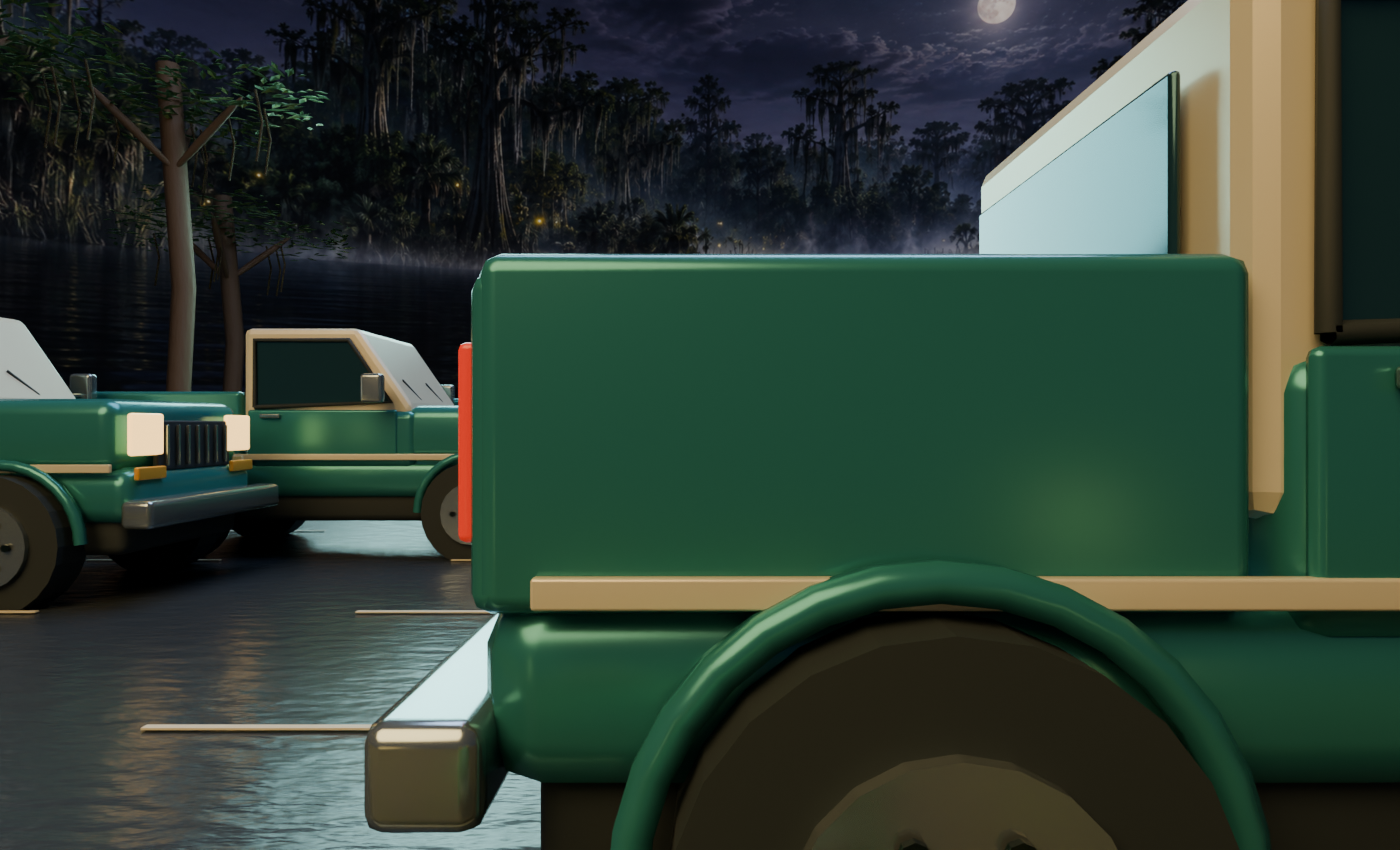
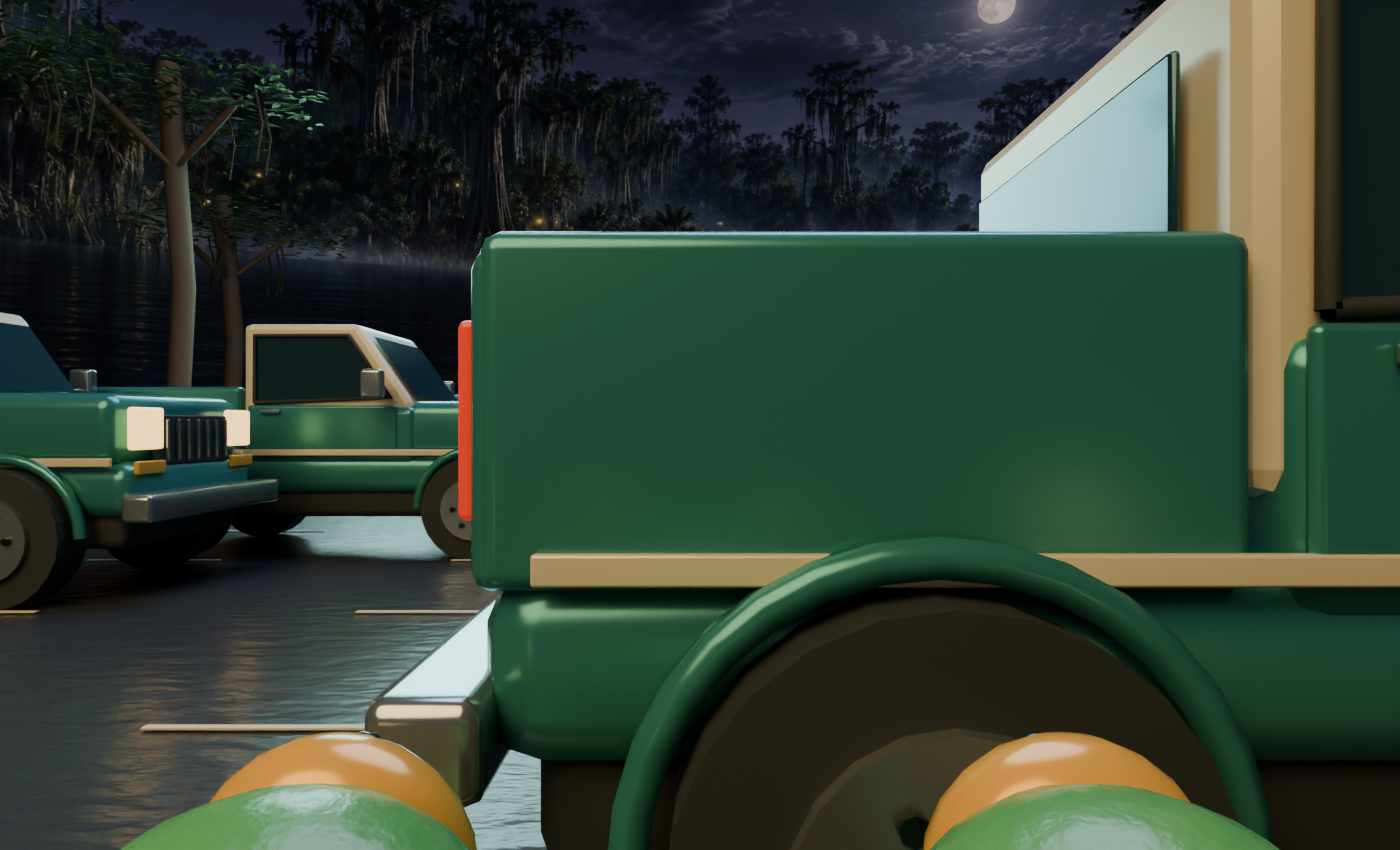
.

diff --git a/scripts/export_bayou.py b/scripts/export_bayou.py
@@ -1,0 +1,50 @@
+"""Export reviewed Blender models only after explicit Form approval is recorded."""
+import bpy,json,hashlib,os
+from pathlib import Path
+BASE=Path(__file__).resolve().parent.parent;DESIGN=BASE/'design/bayou-crossing';OUT=BASE/'public/assets/bayou'
+review=json.loads((DESIGN/'milestone-reviews.json').read_text())
+if review['form']['status']!='approved' or not review['form']['approvedBy']:raise RuntimeError('Explicit Form approval required before export')
+OUT.mkdir(parents=True,exist_ok=True)
+report=[]
+def export(name,objects):
+ bpy.ops.object.select_all(action='DESELECT')
+ for o in objects:o.hide_set(False);o.hide_render=False;o.select_set(True)
+ bpy.context.view_layer.objects.active=objects[0]
+ bpy.ops.export_scene.gltf(filepath=str(OUT/(name+'.glb')),export_format='GLB',use_selection=True,export_apply=True,export_yup=True,export_extras=True,export_cameras=False,export_lights=False)
+ path=OUT/(name+'.glb');dg=bpy.context.evaluated_depsgraph_get();tri=0
+ for o in objects:
+  if o.type not in ['MESH','CURVE','FONT']:continue
+  evaluated=o.evaluated_get(dg);me=evaluated.to_mesh();tri+=sum(len(p.vertices)-2 for p in me.polygons);evaluated.to_mesh_clear()
+ report.append({'path':str(path.relative_to(BASE)),'bytes':path.stat().st_size,'sha256':hashlib.sha256(path.read_bytes()).hexdigest(),'triangles':tri})
+# Bake Blender's procedural micro-normal detail onto each asset's own UV atlas.
+for name in ['frog','truck','log','turtle']:
+ bpy.ops.wm.open_mainfile(filepath=str(DESIGN/'meshes/bayou-assets.blend'))
+ o=bpy.data.objects[name.upper()];o.hide_set(False);o.hide_render=False
+ bpy.ops.object.select_all(action='DESELECT');o.select_set(True);bpy.context.view_layer.objects.active=o
+ bpy.ops.object.transform_apply(location=False,rotation=False,scale=True)
+ bpy.ops.object.mode_set(mode='EDIT');bpy.ops.mesh.select_all(action='SELECT');bpy.ops.uv.smart_project(island_margin=.015);bpy.ops.object.mode_set(mode='OBJECT')
+ image=bpy.data.images.new(name+' baked micro-normal',width=1024,height=1024,alpha=False);image.colorspace_settings.name='Non-Color'
+ for slot in o.material_slots:
+  m=slot.material.copy();slot.material=m;n=m.node_tree.nodes.new('ShaderNodeTexImage');n.image=image;m.node_tree.nodes.active=n
+ scene=bpy.context.scene;scene.render.engine='CYCLES';scene.cycles.samples=4;scene.render.bake.use_selected_to_active=False;scene.render.bake.margin=8
+ bpy.ops.object.bake(type='NORMAL')
+ image.filepath_raw=str(OUT/(name+'-normal.png'));image.file_format='PNG';image.save();image.pack()
+ for m in o.data.materials:
+  p=m.node_tree.nodes.get('Principled BSDF');n=m.node_tree.nodes.new('ShaderNodeNormalMap');t=m.node_tree.nodes.new('ShaderNodeTexImage');t.image=image;m.node_tree.links.new(t.outputs['Color'],n.inputs['Color']);m.node_tree.links.new(n.outputs['Normal'],p.inputs['Normal'])
+ # The full tier is preserved for close inspection; reduced meshes are used in gameplay.
+ export(name+'-high',[o])
+ dec=o.modifiers.new('Runtime detail reduction','DECIMATE');dec.ratio=.5
+ export(name,[o])
+ dec.ratio=.25;export(name+'-vlow',[o])
+# Separate static room geometry from simulated movable props.
+bpy.ops.wm.open_mainfile(filepath=str(DESIGN/'meshes/bayou-world.blend'))
+objects=[o for o in bpy.context.scene.objects if o.get('asset_group')=='environment']
+export('world',objects)
+for o in objects:
+ if o.type=='MESH' and len(o.data.polygons)>50:
+  dec=o.modifiers.new('VR reduced detail','DECIMATE');dec.ratio=.55
+export('world-vlow',objects)
+bpy.ops.wm.open_mainfile(filepath=str(DESIGN/'meshes/bayou-cabinet.blend'))
+export('cabinet',[o for o in bpy.context.scene.objects if o.type=='MESH'])
+(DESIGN/'runtime/asset-manifest.json').write_text(json.dumps({'source':'Native Blender assets and environment','formApproval':review['form'],'assets':report,'normals':'Procedural surface details baked by Blender into 1024px normal atlases','lighting':'lighting-fixtures.json; WebXR approximation requires browser verification'},indent=2)+'\n')
+print('BAYOU_APPROVED_EXPORT_COMPLETE',flush=True)
